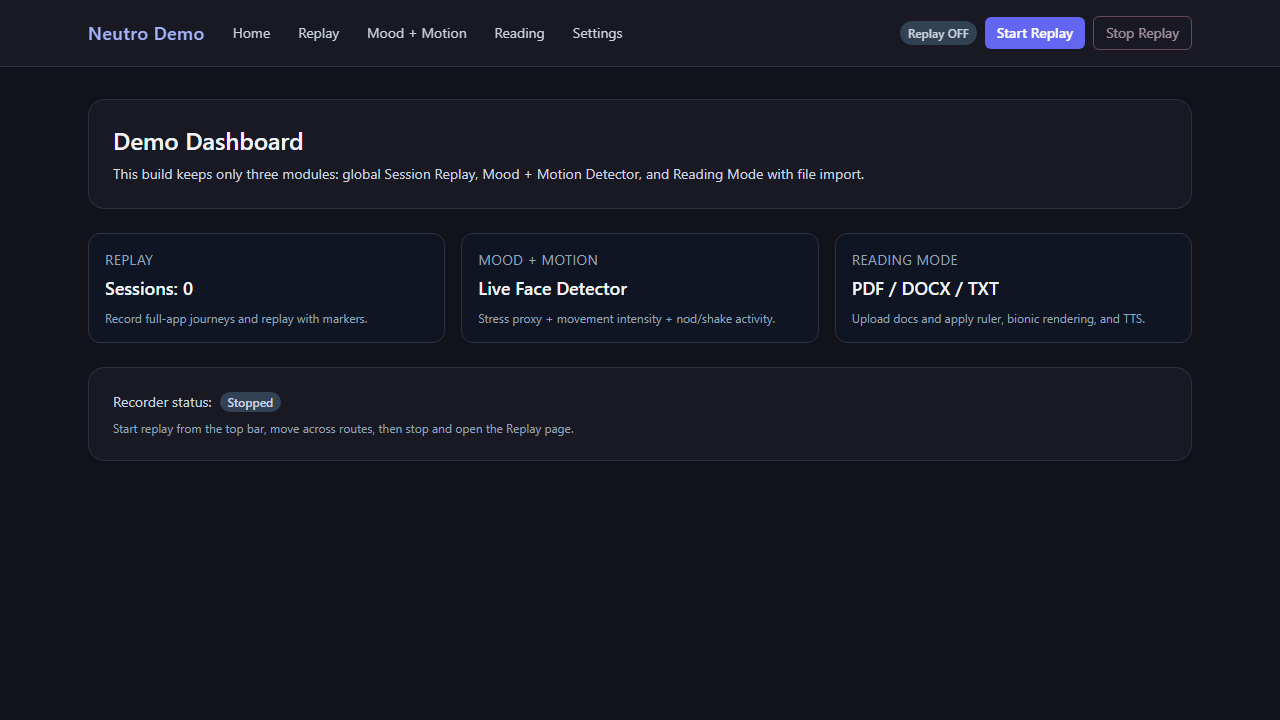
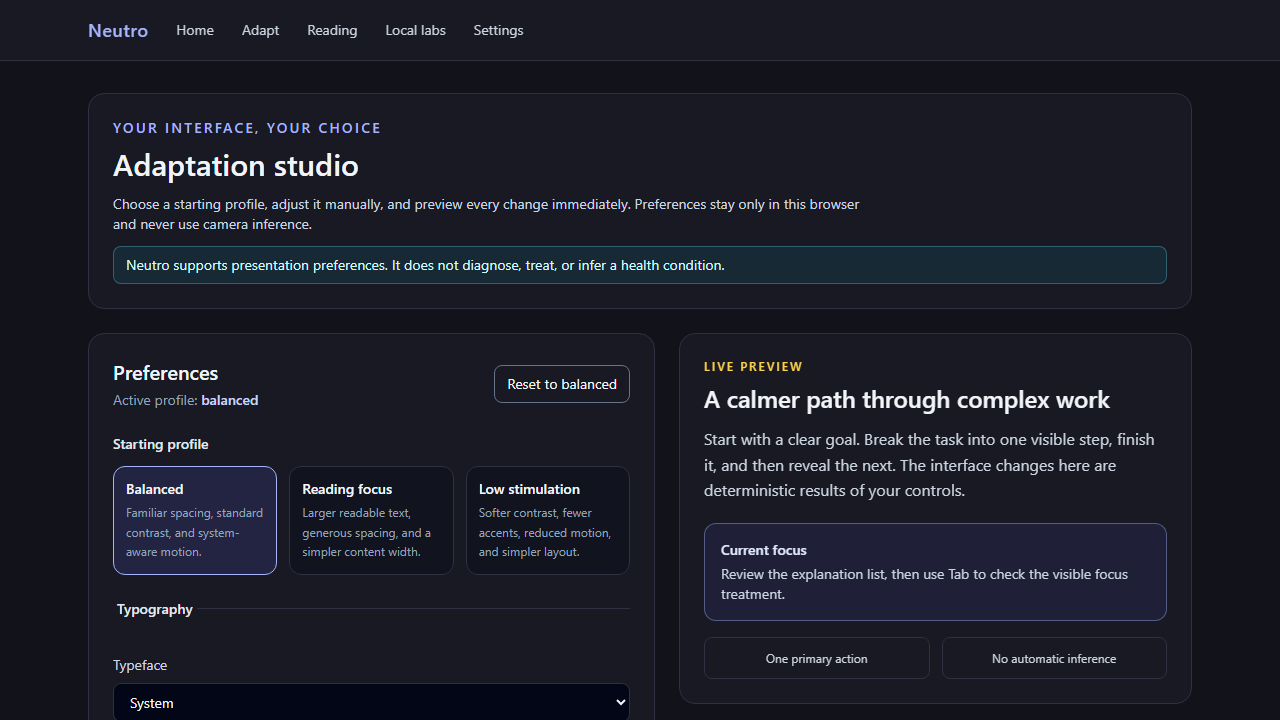
docs: synchronize Neutro v0.6.0

diff --git a/lib/projects.ts b/lib/projects.ts
@@ -249,25 +249,25 @@ const source: Project[] = [
   {
     slug: "neutro",
     displayName: "Neutro",
-    shortDescription: "An experimental accessibility-adaptation interface focused on explainable preference changes.",
-    problem: "Interfaces often ignore individual sensory and interaction preferences.",
-    targetUser: "People exploring configurable interface adaptation.",
-    solution: "A preference-oriented interface concept for typography, motion, contrast, and state adaptation.",
-    contribution: "Implemented the interface and repaired lint/build issues while documenting ethical and evidence limits.",
-    status: "Experimental",
-    technologies: ["React", "TypeScript", "Vite"],
-    categories: ["Accessibility", "Experimental"],
+    shortDescription: "A local-first, user-controlled interface adaptation prototype with transparent profiles and explainable changes.",
+    problem: "Interfaces often hide accessibility settings across disconnected controls or infer needs without giving the user a clear explanation and reset path.",
+    targetUser: "People who want direct control over presentation preferences in one browser.",
+    solution: "A deterministic adaptation studio for typography, contrast, motion, sensory load, layout, and focus assistance with live preview, explanations, persistence, and reset.",
+    contribution: "Refocused the product around explicit user choice; implemented the preference engine, provider, accessible workflow, persistence recovery, tests, performance split, documentation, and narrated release evidence.",
+    status: "v0.6.0 released local-first prototype",
+    technologies: ["React", "TypeScript", "Vite", "Vitest", "Playwright"],
+    categories: ["Accessibility", "Full Stack", "Experimental"],
     repositoryUrl: `${owner}/Neutro`,
     video: media("neutro"),
     videoPoster: "/assets/projects/neutro.png",
-    architecture: ["React interface", "Preference state"],
-    workflow: ["Choose preferences", "Apply adaptation", "Reset state"],
-    technicalDecisions: ["No medical claims", "Optional device integrations stay separate"],
-    challenge: "Measurable accessibility outcomes still require behavioral tests.",
-    testEvidence: ["ESLint clean", "Two production builds"],
-    securityNotes: ["Camera/privacy boundaries remain optional and explicit"],
-    limitations: ["No meaningful automated adaptation tests"],
-    roadmap: ["Add deterministic transformation and accessibility tests"],
+    architecture: ["Pure preset, normalization, and explanation rules", "React provider mapping state to CSS variables and document attributes", "Versioned local browser persistence", "Route-split optional reading, replay, and camera labs"],
+    workflow: ["Choose a transparent starting profile", "Override any presentation dimension", "Inspect the live preview and explanations", "Reload to confirm local persistence", "Reset completely to Balanced"],
+    technicalDecisions: ["Manual changes always become an explicit Custom profile", "System reduced motion is never overridden by forced motion", "Camera heuristics cannot change adaptation preferences or trigger automatic intervention", "Optional labs load separately from the primary workflow"],
+    challenge: "The product needed to make adaptation immediately useful while keeping every transformation user-controlled, reversible, explainable, and free of unsupported medical inference.",
+    testEvidence: ["6 deterministic Vitest cases", "Desktop persistence/reset Playwright workflow", "390×844 overflow and keyboard-focus check", "Canonical and legacy lint/build CI", "0 known npm vulnerabilities"],
+    securityNotes: ["Preferences remain in versioned browser storage", "Camera and replay are off by default and require explicit user action"],
+    limitations: ["Preferences do not sync across browsers or devices", "No clinical validation, health outcome, or cross-platform desktop claim"],
+    roadmap: ["Add automated accessibility scanning and broader assistive-technology/browser evidence"],
     featured: false,
     displayOrder: 8,
     theme: { accent: "#45a3ff", glow: "#b2dcff", signature: "adaptive" },

diff --git a/tests/media-integrity.test.ts b/tests/media-integrity.test.ts
@@ -16,7 +16,7 @@ const recordings = [
   { directory: "heart-analysis", duration: 257.48, narrated: true },
   { directory: "zettalogix", duration: 340, narrated: true },
   { directory: "workhub", duration: 342.72, narrated: true },
-  { directory: "neutro", duration: 55.04, narrated: false },
+  { directory: "neutro", duration: 195.92, narrated: true },
   { directory: "shadowops", duration: 55.04, narrated: false },
   { directory: "hyd-vntg", duration: 58.24, narrated: false },
   { directory: "parkalert", duration: 55.12, narrated: false }

diff --git a/portfolio-content-audit.md b/portfolio-content-audit.md
@@ -42,7 +42,7 @@ Twelve repository WebM demos were inspected as real 1280×720 files. Featured pr
 - ShadowOps is a collaborative fork. Upstream, team, and individual contributions are explicitly separated. It is an experimental archive entry, never a flagship.
 - Parking Alert remains excluded from the main story because deployed Firebase rules and console restrictions are unverified.
 - `thrifty_vintagegarag` is a private duplicate and is excluded.
-- Neutro remains experimental because accessibility-adaptation behavior lacks meaningful automated tests.
+- Neutro remains experimental despite deterministic rule and browser workflow tests because broader assistive-technology evidence and clinical/outcome validation are explicitly absent.
 - WorkHub remains a secondary project because its frontend and CORS tests pass but its authenticated database-backed primary workflow is not integration-tested.
 - HYD VNTG is a supporting storefront, not a featured engineering flagship.
 